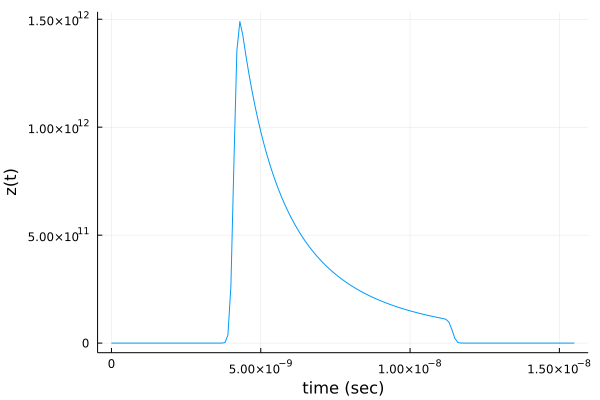
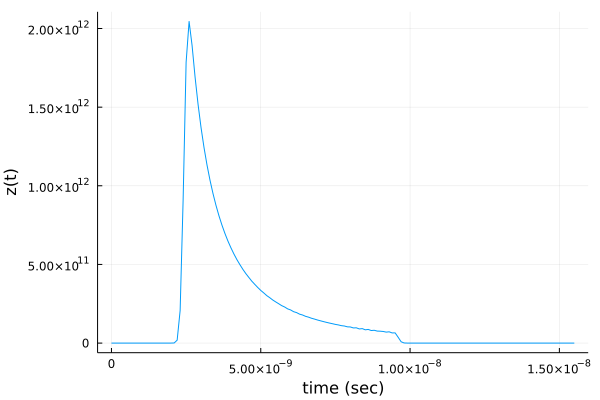
updated Scenario E inverse model

diff --git a/docs/src/omniDirectionalLTI/omnidirLTIsource.md b/docs/src/omniDirectionalLTI/omnidirLTIsource.md
@@ -345,10 +345,9 @@ display(p1)
 
 ### Inverse Modeling
 
-Given the scenario E assumptions i.e. the position of the source,$𝐩ₛ$ and the receivers at $𝐩ᵣ$ by providing the transmitted signal, $p(t)$ as an ideal impulse and a continuous reflector we obtained the received signal, $z(t)$.
-Now we can estimate the reflector function as follows.
+Given the scenario E assumptions i.e. the position of the source,$𝐩ₛ$ and the receivers at $𝐩ᵣ$ by providing the transmitted signal, $p(t)$ as an ideal impulse and with a continuous line segment reflector, we obtained the received signal, $z(t)$. Now we can estimate the reflector function as follows.
 
-
+$\hat{f}(\bm{\xi}) = ∫_{0}^{L}\dfrac{z\left(  \dfrac{\|\bm{p}_\mathrm{r}-[\bm{\xi}+k\bm{u}]\|+\|[\bm{\xi}+k\bm{u}]-\bm{p}_\mathrm{s}\|}{\mathrm{c}}  \right)}{\mathrm{A}\left(\frac{\|\bm{p}_\mathrm{r}-[\bm{\xi}+k\bm{u}]\|}{\mathrm{c}}\right)\mathrm{A}\left(\frac{\|[\bm{\xi}+k\bm{u}]-\bm{p}_\mathrm{s}\|}{\mathrm{c}}\right)} dk$
 
 ```julia
 using ISA, LTVsystems
@@ -356,9 +355,9 @@ using QuadGK
 using Plots
 𝐩ₛ =  [0.0, 0.3]
 𝐩ᵣ =  [-0.3, 0.0]
-ξ₀=[0.1,0.0]
-α₀ = 0.7;
-L = collect(range(1, 2.0, step=0.01))
+ξ₀=[0.0,0.3]
+α₀ = 0.6;
+L = collect(range(1.0, 2.0, step=0.025))
 g(k) = ξ₀ .+ k.*[1.0,0.0]
 temp = quadgk.(g, 0.0, L)
 value = [α₀*(temp[i][1]) for i in 1:length(L)]
